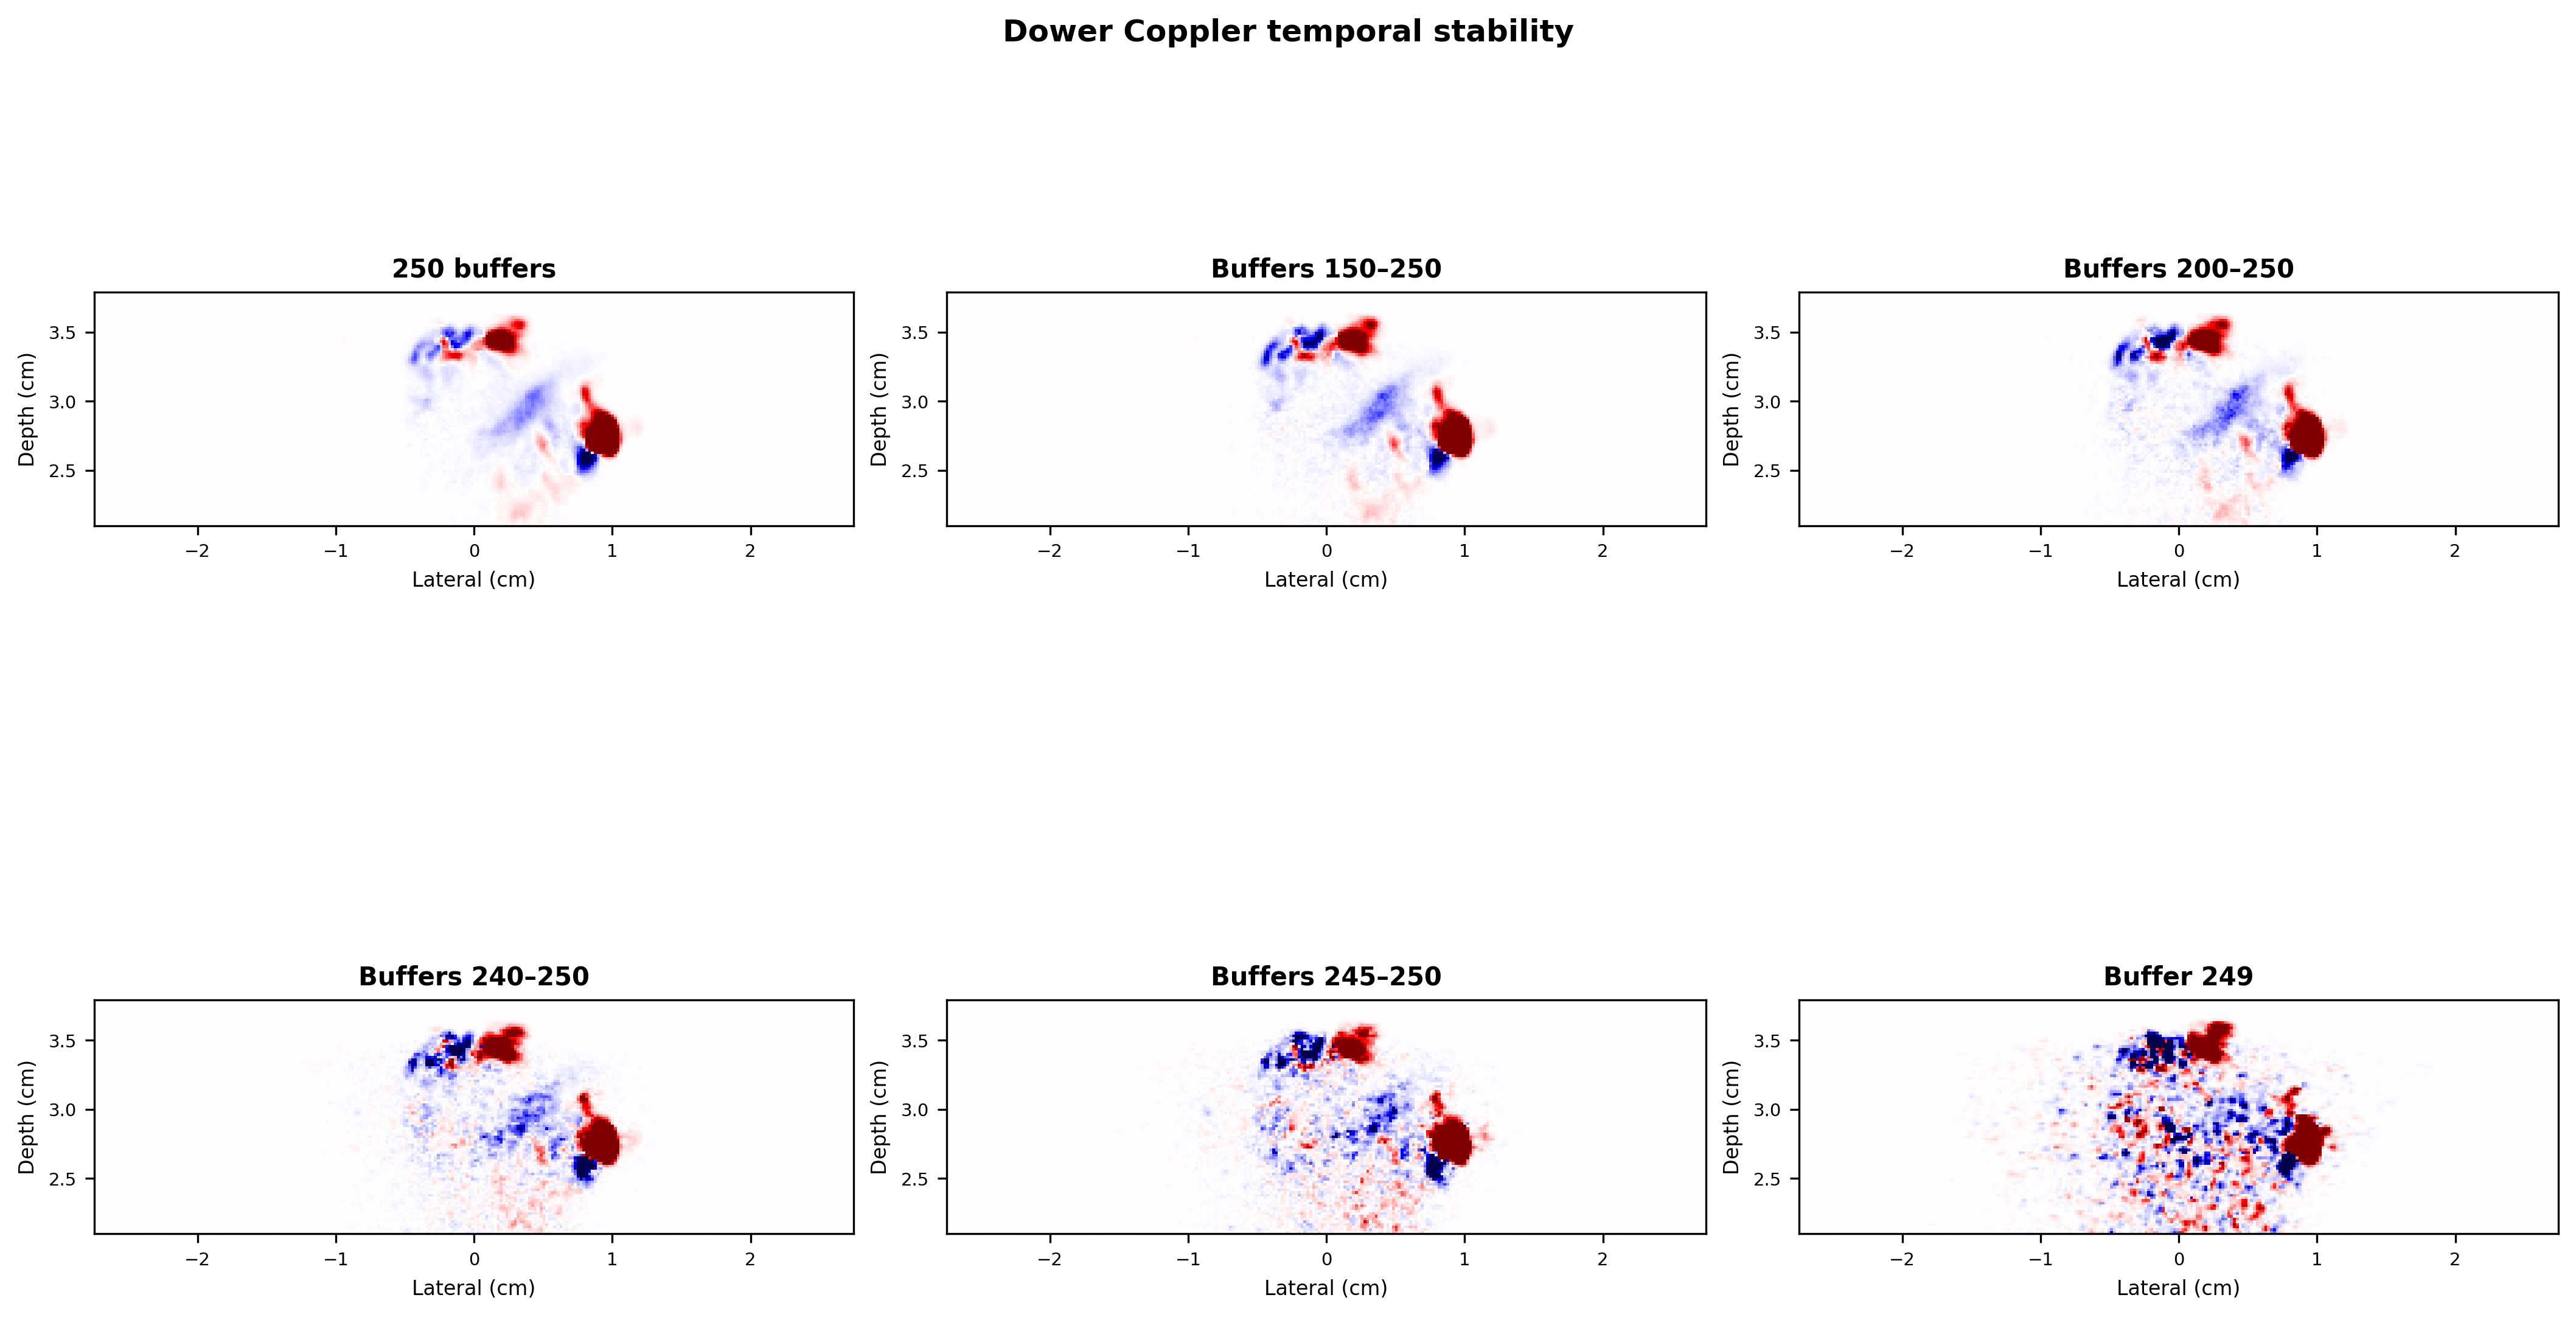
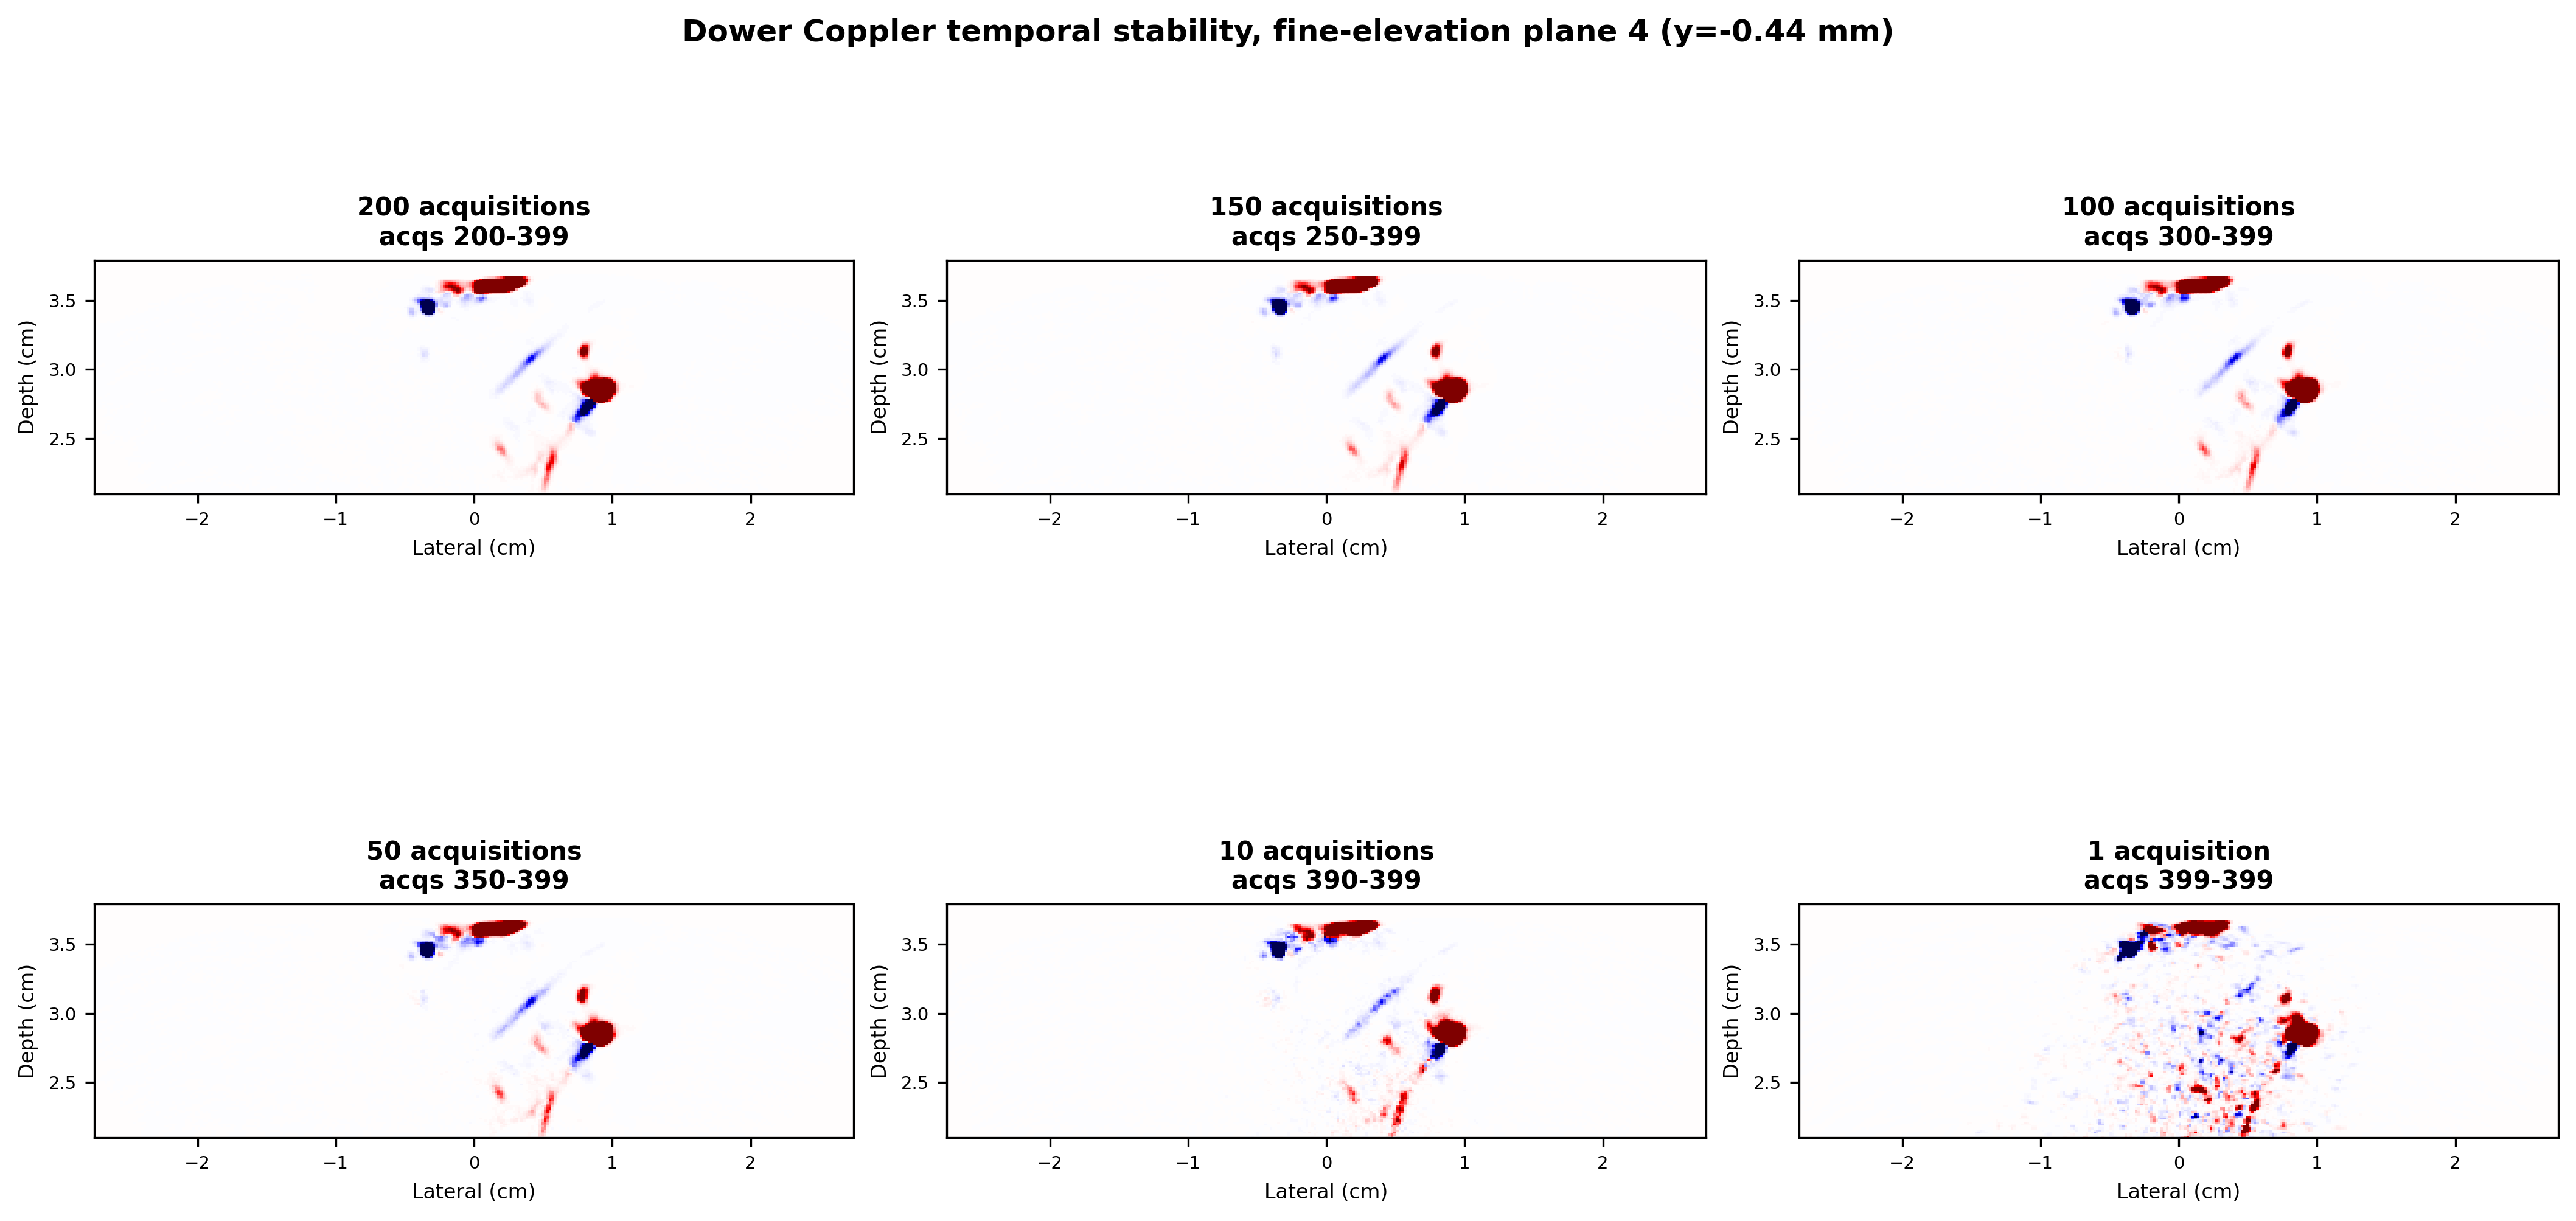
Replace temporal stability figure

diff --git a/scripts/generate_paper_figures.py b/scripts/generate_paper_figures.py
@@ -31,6 +31,11 @@ DEFAULT_REGIONS_PATH = DATA_DIR / "cnr_measurement_20260515_191622.regions.json"
 DEFAULT_ALL_PLANES_PATH = DATA_DIR / "head_2025-09-21_full2dtx_fast8_fine_xz_y-4to4mm_10elev_acq200_400.npz"
 DEFAULT_ALL_PLANES_START = 2
 DEFAULT_ALL_PLANES_END = 7
+DEFAULT_TEMPORAL_PER_ACQ_DIR = Path(
+    "/Users/lev/dev/caterpillar/results/doppler_cnr_gui/"
+    "head_2025-09-21_full2dtx_fast8_fine_xz_y-4to4mm_10elev_acq200_400_per_acq"
+)
+DEFAULT_TEMPORAL_PLANE = 4
 DEFAULT_EXTERNAL_RECORDING_PATH = DATA_DIR / (
     "bt24480388_2026-05-18_152605_txel0_h5_row-1_fine_xz_y-3p5to3p5mm_10elev_all20.npz"
 )
@@ -304,7 +309,7 @@ def figure_three_panel(data: dict, output_dir: Path, acq_start: int = 0, acq_end
 
 
 def figure_temporal_stability(data: dict, output_dir: Path):
-    """DC maps at different averaging windows showing stability."""
+    """Legacy temporal-stability figure for per-acquisition stacked NPZs."""
     windows = [
         (0, 250, "250 buffers"),
         (150, 250, "Buffers 150–250"),
@@ -338,6 +343,78 @@ def figure_temporal_stability(data: dict, output_dir: Path):
     fig.savefig(output_dir / "fig_temporal_stability.png", dpi=300, bbox_inches="tight")
     plt.close(fig)
     print(f"  Saved temporal stability montage")
+
+
+def figure_temporal_stability_from_sidecar(
+    per_acq_dir: Path,
+    output_dir: Path,
+    plane: int = DEFAULT_TEMPORAL_PLANE,
+):
+    """Dower Coppler maps from per-acquisition sidecars with count-based labels."""
+    windows = [
+        (200, 399, "200 acquisitions"),
+        (250, 399, "150 acquisitions"),
+        (300, 399, "100 acquisitions"),
+        (350, 399, "50 acquisitions"),
+        (390, 399, "10 acquisitions"),
+        (399, 399, "1 acquisition"),
+    ]
+
+    def load_window(start: int, end: int) -> tuple[np.ndarray, dict]:
+        imgs = []
+        meta = {}
+        for acq in range(start, end + 1):
+            path = per_acq_dir / f"acq_{acq}.npz"
+            with np.load(path, allow_pickle=True) as z:
+                imgs.append(np.asarray(z["dower_coppler"][plane], dtype=np.float32))
+                if not meta:
+                    meta = {k: z[k] for k in ("x_mm", "y_mm", "z_mm") if k in z.files}
+        return np.median(np.stack(imgs, axis=0), axis=0), meta
+
+    images = []
+    meta = {}
+    for start, end, label in windows:
+        img, this_meta = load_window(start, end)
+        images.append((start, end, label, img))
+        if not meta:
+            meta = this_meta
+
+    data_for_extent = {k: np.asarray(v) for k, v in meta.items()}
+    extent = axis_extent_cm(data_for_extent, images[0][3].shape)
+    finite_abs = np.concatenate([np.abs(img[np.isfinite(img)]).ravel() for _, _, _, img in images])
+    common_lim = float(np.percentile(finite_abs, 99.0)) if finite_abs.size else 1.0
+    y_label = ""
+    if "y_mm" in meta:
+        y_mm = np.asarray(meta["y_mm"], dtype=float)
+        if plane < y_mm.size:
+            y_label = f" (y={y_mm[plane]:.2f} mm)"
+
+    fig, axes = plt.subplots(2, 3, figsize=(14, 7.3), constrained_layout=True)
+    axes = axes.ravel()
+    for ax, (start, end, label, img) in zip(axes, images):
+        ax.imshow(
+            img,
+            cmap="seismic",
+            vmin=-common_lim,
+            vmax=common_lim,
+            origin="lower",
+            aspect="equal",
+            extent=extent,
+        )
+        ax.set_title(f"{label}\nacqs {start}-{end}", fontsize=10, fontweight="bold")
+        ax.set_xlabel("Lateral (cm)", fontsize=8)
+        ax.set_ylabel("Depth (cm)", fontsize=8)
+        ax.tick_params(labelsize=7)
+
+    fig.suptitle(
+        f"Dower Coppler temporal stability, fine-elevation plane {plane}{y_label}",
+        fontsize=12,
+        fontweight="bold",
+    )
+    fig.savefig(output_dir / "fig_temporal_stability.pdf", dpi=300, bbox_inches="tight")
+    fig.savefig(output_dir / "fig_temporal_stability.png", dpi=300, bbox_inches="tight")
+    plt.close(fig)
+    print(f"  Saved temporal stability montage from {per_acq_dir}")
 
 
 # ── Figure: All elevation planes ──────────────────────────────────────
@@ -768,6 +845,8 @@ def main():
     parser.add_argument("--all-planes-data", type=Path, default=DEFAULT_ALL_PLANES_PATH)
     parser.add_argument("--all-planes-start", type=int, default=DEFAULT_ALL_PLANES_START)
     parser.add_argument("--all-planes-end", type=int, default=DEFAULT_ALL_PLANES_END)
+    parser.add_argument("--temporal-per-acq-dir", type=Path, default=DEFAULT_TEMPORAL_PER_ACQ_DIR)
+    parser.add_argument("--temporal-plane", type=int, default=DEFAULT_TEMPORAL_PLANE)
     parser.add_argument("--external-recording-data", type=Path, default=DEFAULT_EXTERNAL_RECORDING_PATH)
     parser.add_argument(
         "--external-recording-plane",
@@ -800,10 +879,16 @@ def main():
 
     print("\nGenerating figures:")
     figure_three_panel(per_acq, args.output_dir)
-    if np.asarray(per_acq["dower_coppler"]).ndim == 4:
+    if args.temporal_per_acq_dir.exists():
+        figure_temporal_stability_from_sidecar(
+            args.temporal_per_acq_dir,
+            args.output_dir,
+            plane=args.temporal_plane,
+        )
+    elif np.asarray(per_acq["dower_coppler"]).ndim == 4:
         figure_temporal_stability(per_acq, args.output_dir)
     else:
-        print("  Skipping temporal stability montage for already-averaged viewer dataset")
+        print("  Skipping temporal stability montage: no per-acq sidecar and viewer dataset is already averaged")
 
     figure_cnr_comparison(per_acq, args.output_dir, args.regions, acq_start=0, acq_end=480)
     figure_three_panel_with_rois(per_acq, args.output_dir, args.regions, acq_start=0, acq_end=480)

diff --git a/paper.tex b/paper.tex
@@ -657,23 +657,25 @@ used for the CNR analysis, the sign was identical between halves for
 all 130 vessel-ROI pixels.
 
 \Cref{fig:stability} demonstrates the temporal stability of the Dower
-Coppler map by varying the number of Doppler buffers averaged.
+Coppler map by varying the number of acquisitions included in the
+median image.
 
 \begin{figure*}[t]
   \centering
   \includegraphics[width=\textwidth]{fig_temporal_stability.png}
-  \caption{Dower Coppler maps computed from different numbers of Doppler
-    buffers (same color scale throughout).  The vessel pattern and flow
-    direction assignment are stable from 250 buffers down to 5~buffers.
-    At a single buffer, the major vessels remain identifiable but
-    background noise increases.}
+  \caption{Dower Coppler maps computed from different numbers of
+    acquisitions on the fine-elevation plane at $y=-0.44$~mm.  All
+    panels use one shared symmetric color scale.  The vessel pattern
+    and flow direction assignment remain stable from 200 acquisitions
+    down to 10 acquisitions.  At a single acquisition, the major
+    vessels remain identifiable but background noise increases.}
   \label{fig:stability}
 \end{figure*}
 
-The vessel pattern and flow direction assignments are stable from 250
-buffers down to as few as 5~buffers.  At a single buffer, the major
-vessels remain identifiable but background noise increases
-substantially.
+The vessel pattern and flow direction assignments are stable from 200
+acquisitions down to as few as 10 acquisitions.  At a single
+acquisition, the major vessels remain identifiable but background
+noise increases substantially.
 
 \Cref{fig:all_planes} shows the Dower Coppler map across elevation
 planes 2--7 from a finer elevational rebeamforming run spanning

diff --git a/TODO.md b/TODO.md
@@ -13,11 +13,11 @@
 - [x] Add the derived NPZ inputs used by the paper figures to the standalone paper repository.
 - [x] Address the V6 CNR outlier by reporting median CNR and noting that V6 is a one-pixel compact high-contrast ROI.
 - [x] Compute split-half sign agreement for acquisitions 200-299 vs 300-399 in the vessel ROIs and save the summary in `outputs/paper_stats/split_half_sign_agreement.json`.
+- [x] Replace the stale temporal-stability figure with the fine-elevation per-acquisition sidecar montage, labeled by acquisition counts.
+- [x] Add the temporal-stability sidecar path and default figure-generation parameters to the reproducibility manifest.
 
 ## Open
 
-- [ ] Regenerate or remove the stale temporal-stability figure. The default figure script currently skips it when the viewer NPZ is already averaged.
-- [ ] Fix temporal-stability panel labels if the figure is kept: labels should be buffer counts, not index ranges.
 - [ ] Add real `\\author{}` list, affiliations, acknowledgments, funding, and conflicts of interest.
 - [ ] Add a data availability statement for the raw H5 ultratraces; if raw data cannot be public, state the controlled-access / IRB limitation clearly.
 - [ ] Check the realtime/acquisition-level color Doppler path in `caterpillar/acquire/acquisition.py`; it may still pass empirical pulse PRF into Doppler estimators for compounded slow-time data.